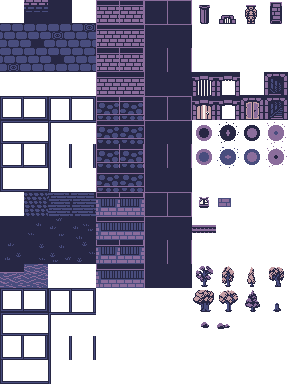
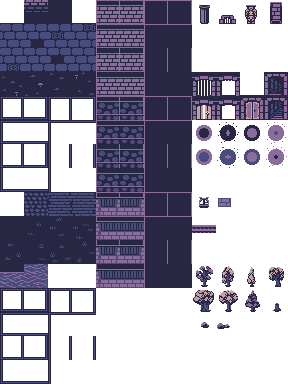
celullar automata level generation, tiles texture

Changed region(s): [[0.0, 0.1875, 0.3438, 0.25]]

diff --git a/core/src/main/com/ovle/rll3/view/layer/level/cave.kt b/core/src/main/com/ovle/rll3/view/layer/level/cave.kt
@@ -1,0 +1,119 @@
+package com.ovle.rll3.view.layer.level
+
+import com.badlogic.gdx.graphics.g2d.TextureRegion
+import com.ovle.rll3.model.ecs.component.DoorComponent
+import com.ovle.rll3.model.ecs.component.LevelConnectionComponent
+import com.ovle.rll3.model.ecs.component.LevelConnectionComponent.LevelConnectionType
+import com.ovle.rll3.model.ecs.component.Mappers.levelConnection
+import com.ovle.rll3.model.ecs.component.TriggerComponent
+import com.ovle.rll3.model.ecs.component.has
+import com.ovle.rll3.model.ecs.entity.entitiesOnPosition
+import com.ovle.rll3.model.ecs.entity.hasEntityOnPosition
+import com.ovle.rll3.model.procedural.grid.roomFloorTypes
+import com.ovle.rll3.model.tile.LightValueType
+import com.ovle.rll3.model.tile.pitFloorTileId
+import com.ovle.rll3.model.tile.roomFloorTileId
+import com.ovle.rll3.model.tile.wallTileId
+import com.ovle.rll3.point
+import com.ovle.rll3.view.layer.caveWallTileSet
+import com.ovle.rll3.view.layer.floorBorderTileSet
+import com.ovle.rll3.view.layer.portalTR
+import com.ovle.rll3.view.layer.trapsTR
+import com.ovle.rll3.view.noLightning
+import ktx.ashley.get
+
+
+fun caveTileToTexture(params: TileToTextureParams): kotlin.Array<TextureRegion> {
+    val (layerType, nearTiles, textureRegions, levelInfo, lightInfo) = params
+
+    val position = point(nearTiles.x, nearTiles.y)
+    val positionDown = point(nearTiles.x, nearTiles.y - 1)
+
+    val entities = entitiesOnPosition(levelInfo, position)
+    fun hasDoor(x: Int, y: Int): Boolean = hasEntityOnPosition(levelInfo, point(x, y), DoorComponent::class)
+    fun hasTrap(x: Int, y: Int): Boolean = hasEntityOnPosition(levelInfo, point(x, y), TriggerComponent::class)
+    fun hasLevelConnection(x: Int, y: Int): Boolean = hasEntityOnPosition(levelInfo, point(x, y), LevelConnectionComponent::class)
+    fun hasWall(tileId: Int?, x: Int, y: Int) = if (tileId == null || (tileId == wallTileId || hasDoor(x, y))) 1 else 0
+    fun hasWallOrPit(tileId: Int?, x: Int, y: Int) = if (tileId == null || (tileId == wallTileId || tileId == pitFloorTileId || hasDoor(x, y))) 1 else 0
+    fun hasRoomWall(tileId: Int?): Int = if (tileId != null && tileId != roomFloorTileId) 1 else 0
+
+    val upTileId = nearTiles.upValue?.typeId
+    val downTileId = nearTiles.downValue?.typeId
+    val rightTileId = nearTiles.rightValue?.typeId
+    val leftTileId = nearTiles.leftValue?.typeId
+
+    val wallTileIndex = nearTiles.run {
+        hasWall(rightTileId, x + 1, y) + 2 * hasWall(downTileId, x, y + 1) + 4 * hasWall(leftTileId, x - 1, y) + 8 * hasWall(upTileId, x, y - 1)
+    }
+    val tilesInSet = floorBorderTileSet.size * floorBorderTileSet.size - 1
+    val floorBorderTileIndex = tilesInSet - nearTiles.run {
+        hasWallOrPit(rightTileId, x + 1, y) + 2 * hasWallOrPit(downTileId, x, y + 1) + 4 * hasWallOrPit(leftTileId, x - 1, y) + 8 * hasWallOrPit(upTileId, x, y - 1)
+    }
+
+    val tileId = nearTiles.value?.typeId
+    val isWall = tileId == wallTileId
+    val isRoomFloor = tileId == roomFloorTileId
+    val isPitFloor = tileId == pitFloorTileId
+    val isDoor = hasDoor(nearTiles.x, nearTiles.y)
+    val isNextToDoor = hasDoor(nearTiles.x, nearTiles.y - 1)
+    val isRoomWall = upTileId in roomFloorTypes
+    val isDoorUp = hasDoor(nearTiles.x, nearTiles.y - 1)
+    val isRoomFloorUp = downTileId == roomFloorTileId
+    val isPitFloorUp = downTileId == pitFloorTileId
+    val isRoomFloorNearVertical = roomFloorTileId in nearTiles.nearV.map { it?.typeId }
+
+    val isTrap = hasTrap(nearTiles.x, nearTiles.y)
+    val isPortal = false
+    val isLevelConnection = hasLevelConnection(nearTiles.x, nearTiles.y)
+    val lightValueType = lightValueType(lightInfo, position, positionDown, isPitFloor, isRoomFloorUp, isWall, isDoorUp)
+
+    val wallTileSet = caveWallTileSet
+//    val floorBorderTileSet = floorBorderTileSet
+
+    val emptyTile = arrayOf<TextureRegion>()
+
+    val regions =
+        if (noLightning) textureRegions.regions else
+            when (lightValueType) {
+                LightValueType.Full -> textureRegions.lightRegions
+                LightValueType.Half -> textureRegions.regions
+                else -> textureRegions.darkRegions
+            }
+
+    return when (layerType) {
+        LayerType.Walls -> when {
+            isWall -> arrayOf(indexedTextureTile(wallTileSet, wallTileIndex, regions))
+//            isRoomFloor -> arrayOf(indexedTextureTile(floorBorderTileSet, floorBorderTileIndex, regions))
+            else -> emptyTile
+        }
+        LayerType.Floor -> when {
+            isPitFloor -> arrayOf(regions[0][if (isPitFloorUp) 2 else 1])
+            isRoomFloor -> arrayOf(regions[3][(1..3).random()])
+            else -> emptyTile
+        }
+        LayerType.Decoration -> when {
+            isLevelConnection -> {
+                val connectionComponent = entities.find { it.has<LevelConnectionComponent>() }!![levelConnection]!!
+                val type = connectionComponent.type
+                when {
+                    !connectionComponent.visited -> arrayOf(regions[4][10])
+                    type == LevelConnectionType.Up -> arrayOf(regions[4][11])
+                    type == LevelConnectionType.Down -> arrayOf(regions[3][11])
+                    else -> throw IllegalStateException("bad connection : type = $type")
+                }
+            }
+            isDoor -> arrayOf(regions[4][8])
+            isTrap -> trapsTR(regions)
+            isPortal -> portalTR(regions)
+            else -> when {
+                isWall && !isNextToDoor -> when {
+//                    isRoomWall -> arrayOf(regions[(0..1).random()][(8..11).random()])
+//                        .withChance(0.6f, defaultValue = emptyTile)
+                    else -> emptyTile
+                }
+                else -> emptyTile
+            }
+        }
+        else -> emptyTile
+    }
+}

diff --git a/core/src/main/com/ovle/rll3/model/procedural/grid/factory/DungeonGridFactory.kt b/core/src/main/com/ovle/rll3/model/procedural/grid/factory/DungeonGridFactory.kt
@@ -1,33 +1,25 @@
-package com.ovle.rll3.model.procedural.grid
+package com.ovle.rll3.model.procedural.grid.factory
 
 import com.github.czyzby.noise4j.map.Grid
 import com.github.czyzby.noise4j.map.generator.room.dungeon.DungeonGenerator
 import com.ovle.rll3.model.procedural.config.LevelGenerationSettings
 import com.ovle.rll3.model.procedural.config.LevelGenerationSettings.DungeonGenerationSettings
-import com.ovle.rll3.model.procedural.config.LevelGenerationSettings.TemplateGenerationSettings
-import com.ovle.rll3.model.procedural.grid.GridFactory.Companion.corridorTreshold
-import com.ovle.rll3.model.procedural.grid.GridFactory.Companion.floorTreshold
-import com.ovle.rll3.model.procedural.grid.GridFactory.Companion.wallTreshold
 
-interface GridFactory {
+class DungeonGridFactory: GridFactory {
+
     companion object {
         const val wallTreshold = 1.0f
         const val floorTreshold = 0.6f
         const val corridorTreshold = 0.2f
     }
 
-    fun get(size: Int, settings: LevelGenerationSettings): Grid
-}
-
-class DungeonGridFactory: GridFactory {
-
     override fun get(size: Int, settings: LevelGenerationSettings): Grid {
         settings as DungeonGenerationSettings
 
         val grid = Grid(size)
-        val dungeonGenerator = DungeonGenerator.getInstance()
+        val generator = DungeonGenerator.getInstance()
 
-        dungeonGenerator.apply {
+        generator.apply {
             settings.roomTypes.forEach { addRoomType(it) }
 
             roomGenerationAttempts = 100
@@ -45,16 +37,4 @@ class DungeonGridFactory: GridFactory {
 
         return grid
     }
-}
-
-//todo
-class TemplateGridFactory: GridFactory {
-    override fun get(size: Int, settings: LevelGenerationSettings): Grid {
-        settings as TemplateGenerationSettings
-
-        val grid = Grid(size)
-        return grid
-    }
-
-    //private fun tileIndexToTile(index: Int, size: Int) = Tile(typeId = template[index % size][index / size])
 }

diff --git a/core/src/main/com/ovle/rll3/model/procedural/config/levelSettings.kt b/core/src/main/com/ovle/rll3/model/procedural/config/levelSettings.kt
@@ -1,12 +1,15 @@
 package com.ovle.rll3.model.procedural.config
 
 import com.github.czyzby.noise4j.map.generator.room.RoomType.DefaultRoomType.*
+import com.ovle.rll3.model.procedural.config.LevelGenerationSettings.CelullarAutomataSettings
 import com.ovle.rll3.model.procedural.config.LevelGenerationSettings.DungeonGenerationSettings
-import com.ovle.rll3.model.procedural.grid.DungeonGridFactory
+import com.ovle.rll3.model.procedural.grid.factory.CelullarAutomataGridFactory
+import com.ovle.rll3.model.procedural.grid.factory.DungeonGridFactory
 import com.ovle.rll3.model.procedural.grid.processor.*
+import com.ovle.rll3.model.util.caveGridValueToTileType
 import com.ovle.rll3.model.util.dungeonGridValueToTileType
+import com.ovle.rll3.view.layer.level.caveTileToTexture
 import com.ovle.rll3.view.layer.level.dungeonTileToTexture
-
 
 val dungeonLevelSettings = LevelSettings(
     generationSettings = DungeonGenerationSettings(
@@ -30,5 +33,17 @@ val dungeonLevelSettings = LevelSettings(
         LevelConnectionProcessor(),
         DoorProcessor(),
         LightSourceProcessor()
+    )
+)
+
+val caveLevelSettings = LevelSettings(
+    generationSettings = CelullarAutomataSettings(
+        size = 25
+    ),
+    gridFactory = CelullarAutomataGridFactory(),
+    gridValueToTileType = ::caveGridValueToTileType,
+    tileToTexture = ::caveTileToTexture,
+    postProcessors = arrayOf(
+        LevelConnectionProcessor()
     )
 )

diff --git a/core/src/main/com/ovle/rll3/model/procedural/grid/factory/CelullarAutomataGridFactory.kt b/core/src/main/com/ovle/rll3/model/procedural/grid/factory/CelullarAutomataGridFactory.kt
@@ -1,0 +1,45 @@
+package com.ovle.rll3.model.procedural.grid.factory
+
+import com.github.czyzby.noise4j.map.Grid
+import com.github.czyzby.noise4j.map.generator.cellular.CellularAutomataGenerator
+import com.ovle.rll3.model.procedural.config.LevelGenerationSettings
+import com.ovle.rll3.model.procedural.config.LevelGenerationSettings.CelullarAutomataSettings
+
+class CelullarAutomataGridFactory: GridFactory {
+
+    companion object {
+        const val wallMarker = 1.0f
+    }
+
+    override fun get(size: Int, settings: LevelGenerationSettings): Grid {
+        settings as CelullarAutomataSettings
+
+        val grid = Grid(size)
+
+        val generator = CellularAutomataGenerator.getInstance()
+        generator.apply {
+            marker = wallMarker
+            deathLimit = 2
+            birthLimit = 6
+            setInitiate(false)
+            //todo
+        }
+        CellularAutomataGenerator.initiate(grid, generator)
+        init(grid, size)
+
+        generator.generate(grid)
+
+        return grid
+    }
+
+    private fun init(grid: Grid, size: Int) {
+        for (x in (0 until size)) {
+            grid.set(x, 0, wallMarker)
+            grid.set(x, size - 1, wallMarker)
+        }
+        for (y in (0 until size)) {
+            grid.set(0, y, wallMarker)
+            grid.set(size - 1, y, wallMarker)
+        }
+    }
+}

diff --git a/core/src/main/com/ovle/rll3/model/util/mappers.kt b/core/src/main/com/ovle/rll3/model/util/mappers.kt
@@ -1,7 +1,8 @@
 package com.ovle.rll3.model.util
 
 import com.github.czyzby.noise4j.map.Grid
-import com.ovle.rll3.model.procedural.grid.GridFactory
+import com.ovle.rll3.model.procedural.grid.factory.CelullarAutomataGridFactory
+import com.ovle.rll3.model.procedural.grid.factory.DungeonGridFactory
 import com.ovle.rll3.model.tile.*
 
 
@@ -16,10 +17,17 @@ fun gridToTileArray(grid: Grid, mapFunction: (Float) -> TileType): TileArray {
 
 fun dungeonGridValueToTileType(gridValue: Float): TileType {
     return when {
-        gridValue >= GridFactory.wallTreshold -> wallTileId
-        gridValue == GridFactory.floorTreshold -> roomFloorTileId
-        gridValue == GridFactory.corridorTreshold -> corridorFloorTileId
+        gridValue >= DungeonGridFactory.wallTreshold -> wallTileId
+        gridValue == DungeonGridFactory.floorTreshold -> roomFloorTileId
+        gridValue == DungeonGridFactory.corridorTreshold -> corridorFloorTileId
         else -> -1
+    }
+}
+
+fun caveGridValueToTileType(gridValue: Float): TileType {
+    return when {
+        gridValue >= CelullarAutomataGridFactory.wallMarker -> wallTileId
+        else -> roomFloorTileId //todo
     }
 }
 

diff --git a/core/src/main/com/ovle/rll3/model/procedural/config/type.kt b/core/src/main/com/ovle/rll3/model/procedural/config/type.kt
@@ -2,7 +2,7 @@ package com.ovle.rll3.model.procedural.config
 
 import com.badlogic.gdx.graphics.g2d.TextureRegion
 import com.github.czyzby.noise4j.map.generator.room.RoomType
-import com.ovle.rll3.model.procedural.grid.GridFactory
+import com.ovle.rll3.model.procedural.grid.factory.GridFactory
 import com.ovle.rll3.model.procedural.grid.processor.TilesProcessor
 import com.ovle.rll3.model.tile.TileType
 import com.ovle.rll3.view.layer.level.TileToTextureParams
@@ -30,6 +30,10 @@ sealed class LevelGenerationSettings(
         val lightSourceChance: Float,
         val doorChance: Float,
         val trapChance: Float
+    ): LevelGenerationSettings(size)
+
+    class CelullarAutomataSettings(
+        size: Int
     ): LevelGenerationSettings(size)
 
     class TemplateGenerationSettings(

diff --git a/core/src/main/com/ovle/rll3/model/procedural/grid/factory/TemplateGridFactory.kt b/core/src/main/com/ovle/rll3/model/procedural/grid/factory/TemplateGridFactory.kt
@@ -1,0 +1,16 @@
+package com.ovle.rll3.model.procedural.grid.factory
+
+import com.github.czyzby.noise4j.map.Grid
+import com.ovle.rll3.model.procedural.config.LevelGenerationSettings
+
+//todo
+class TemplateGridFactory: GridFactory {
+    override fun get(size: Int, settings: LevelGenerationSettings): Grid {
+        settings as LevelGenerationSettings.TemplateGenerationSettings
+
+        val grid = Grid(size)
+        return grid
+    }
+
+    //private fun tileIndexToTile(index: Int, size: Int) = Tile(typeId = template[index % size][index / size])
+}

diff --git a/core/src/main/com/ovle/rll3/view/layer/TextureTileSet.kt b/core/src/main/com/ovle/rll3/view/layer/TextureTileSet.kt
@@ -8,5 +8,5 @@ data class TextureTileSet(
 )
 
 val roomWallTileSet = TextureTileSet("roomWall", originY = 4)
-val passageWallTileSet = TextureTileSet("passageWall", originX = 4, originY = 4)
+val caveWallTileSet = TextureTileSet("passageWall", originX = 4, originY = 4)
 val floorBorderTileSet = TextureTileSet("roomFloor", originX = 4)

diff --git a/core/src/main/com/ovle/rll3/model/procedural/grid/factory/GridFactory.kt b/core/src/main/com/ovle/rll3/model/procedural/grid/factory/GridFactory.kt
@@ -1,0 +1,9 @@
+package com.ovle.rll3.model.procedural.grid.factory
+
+import com.github.czyzby.noise4j.map.Grid
+import com.ovle.rll3.model.procedural.config.LevelGenerationSettings
+
+interface GridFactory {
+    fun get(size: Int, settings: LevelGenerationSettings): Grid
+}
+
